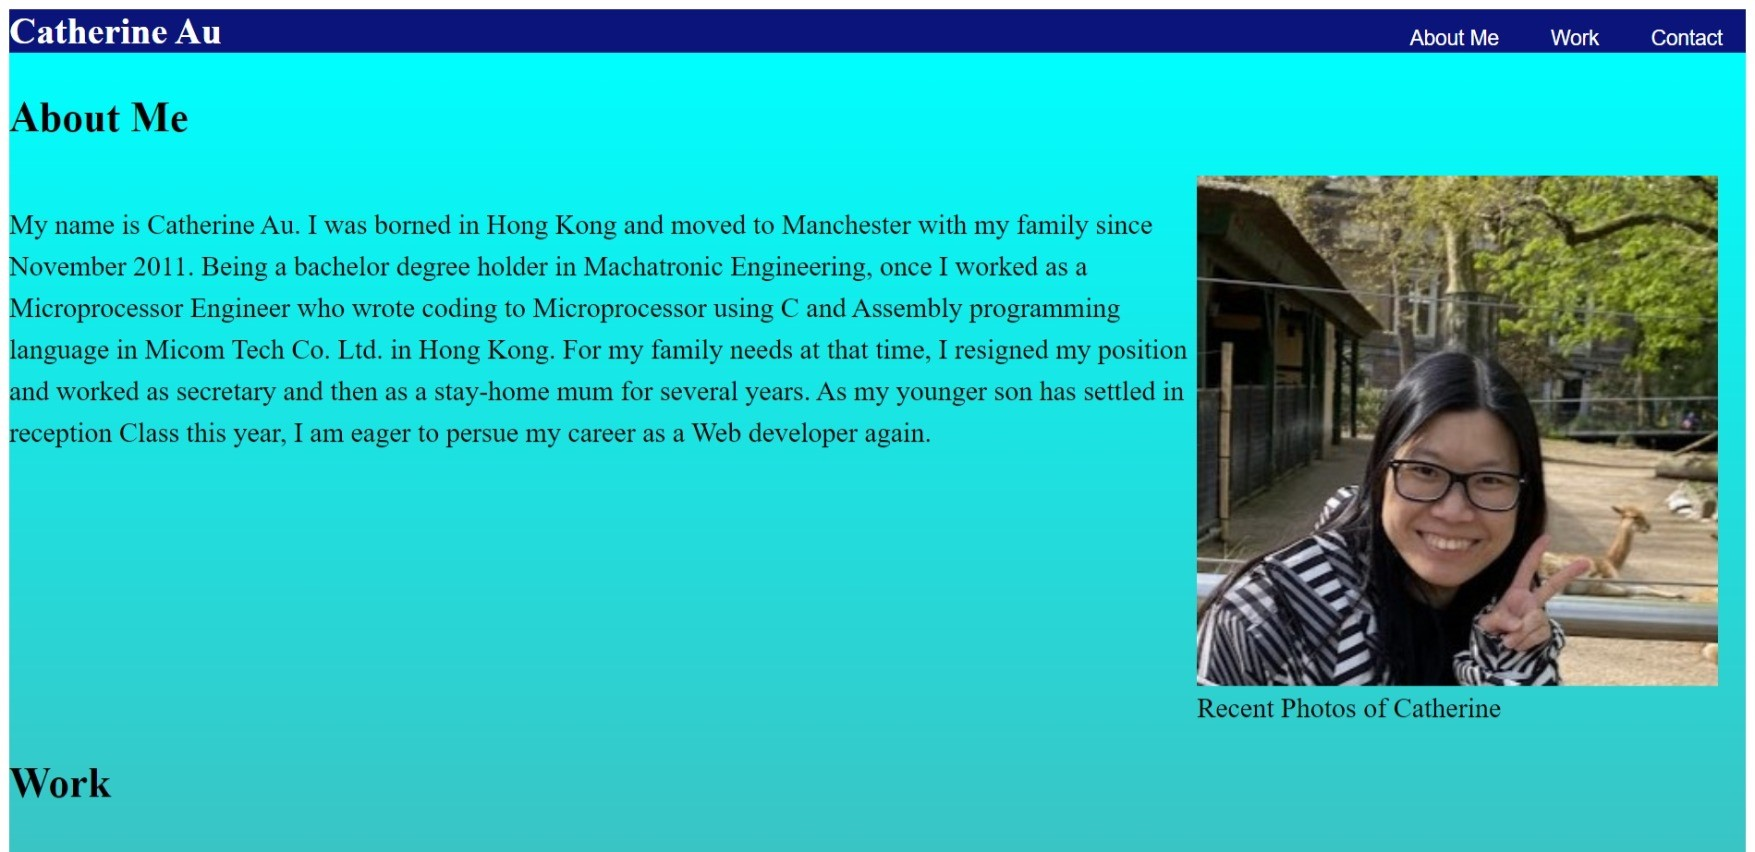
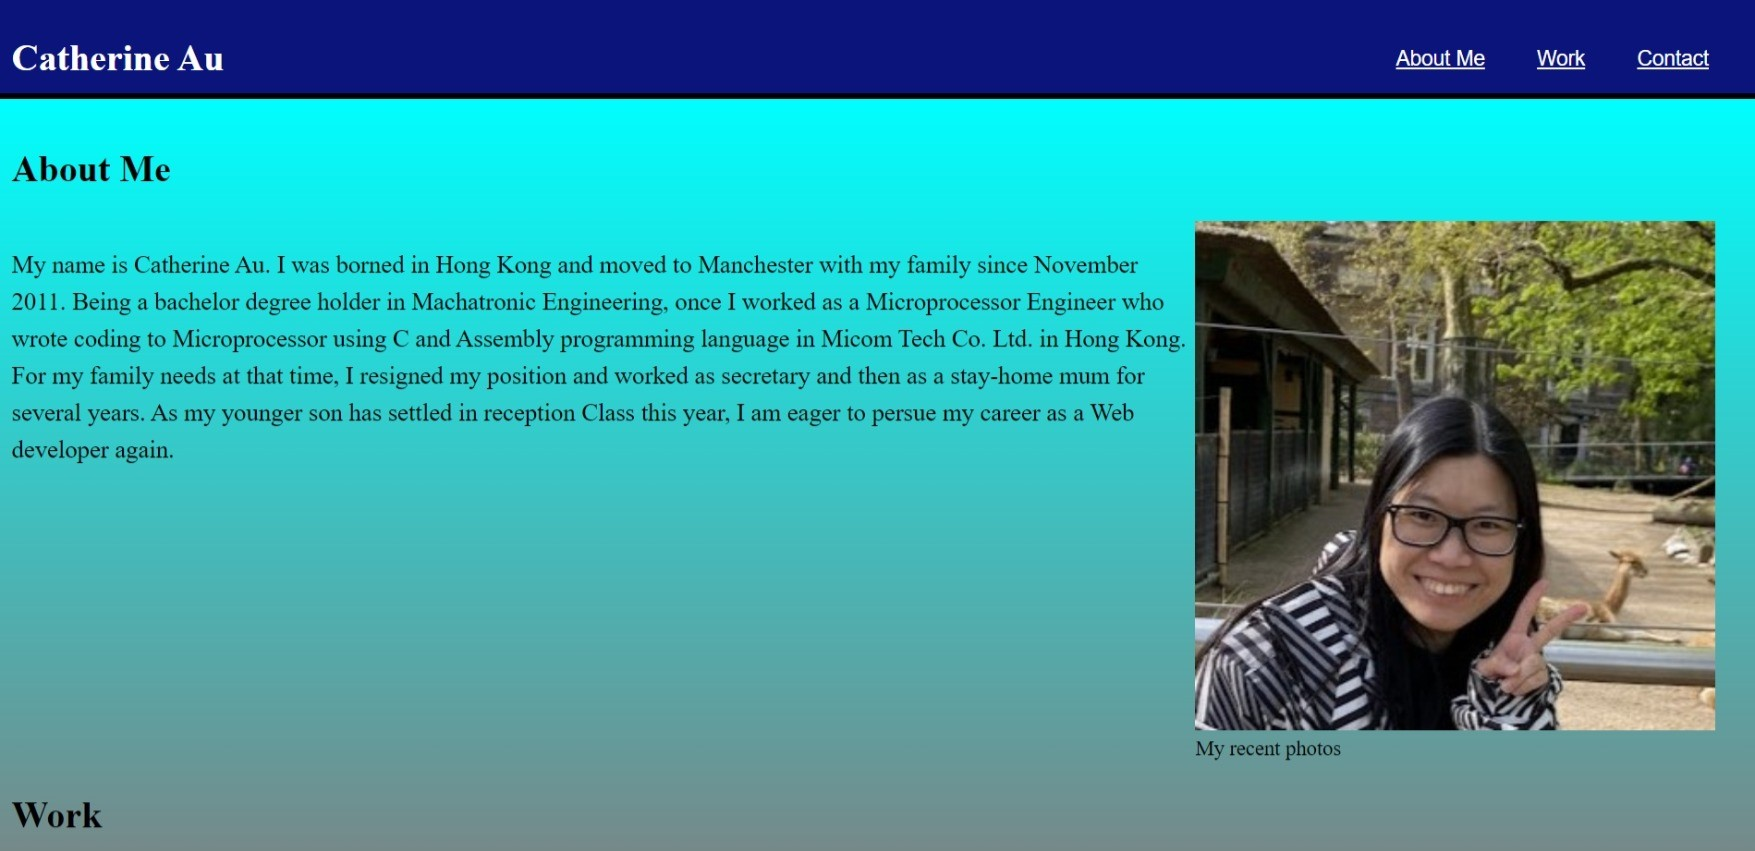
revised the work section using the placeholder images

diff --git a/index.html b/index.html
@@ -29,7 +29,7 @@
         </div>
         <figure id="CatPhotos"> 
           <img src="./assets/images/catherinephoto.jpg" alt="Recent photo of catherine">
-          <figcaption>Recent Photos of Catherine</figcaption>
+          <figcaption>My recent photos</figcaption>
         </figure>
       </Section>
 
@@ -51,23 +51,23 @@
         </div>
 
         <div id="Project3" Class="WorkProject">
-          <h3>Project3 TBA</h3>
-          <a href="https://www.google.co.uk/">
-            <img src="./assets/images/google.jpeg" alt="Photos of Google">
+          <h3><input type="text" name="fname" placeholder="Project3 TBA"></h3>
+          <a href="https://placeholder.com/">
+            <img src="https://via.placeholder.com/1755x851?text=Project3" alt="placeholder Project3 TBA">
           </a>
         </div>
 
         <div id="Project4" Class="WorkProject">
-          <h3>Project4 TBA</h3>
-          <a href="https://uk.yahoo.com/.">
-            <img src="./assets/images/yahoo.jpeg" alt="Photos of Yahoo">
+          <h3><input type="text" name="fname" placeholder="Project4 TBA"></h3>
+          <a href="https://placeholder.com/">
+            <img src="https://via.placeholder.com/1755x851?text=Project4" alt="placeholder Project4 TBA">
           </a>
         </div>
 
         <div id="Project5" Class="WorkProject">
-          <h3>Project5 TBA</h3>
-          <a href="https://www.trilogyed.com/">
-            <img src="./assets/images/Trilogyed.jpeg" alt="Photos of Triologyed">
+          <h3><input type="text" name="fname" placeholder="Project5 TBA"></h3>
+          <a href="https://placeholder.com/">
+            <img src="https://via.placeholder.com/1755x851?text=Project5" alt="placeholder Project5 TBA">
           </a>
         </div>
       </Section>

diff --git a/assets/css/style.css b/assets/css/style.css
@@ -3,6 +3,7 @@
 :root {
   --largepad: 50px;
   --smallpad: 10px; 
+  --bkgbrown:rgba(54, 56, 15, 0.589);
  
 }
 
@@ -13,7 +14,7 @@ body {
 
 main {
   padding: var(--smallpad);
-  background-image: linear-gradient(cyan, gray,rgba(54, 56, 15, 0.589));
+  background-image: linear-gradient(cyan, gray,var(--bkgbrown));
 }
 
 
@@ -99,6 +100,8 @@ figcaption {
 
 .WorkProject img {
   width:-webkit-fill-available;
+  width:-moz-available;         
+  width:fill-available;
 }
 
 .WorkProject:hover {
@@ -137,6 +140,7 @@ footer {
   justify-content: center;
   padding: 2%;
   font-size: larger;
+  background-image: linear-gradient(var(--bkgbrown),rgba(34, 35, 11, 0.589));
 }
 
 

diff --git a/README.md b/README.md
@@ -4,7 +4,9 @@
    The Week 2 Challenge of the Coding boot camp of University of Birmingham is to create a web application from scratch.  We have build a our own portfolio page using flexbox, media queries, and CSS variables.
 
 * Test
-
+   The code was then checked at the following website for the web accessiblity and the markup
+    * https://wave.webaim.org/
+    * https://validator.w3.org/
 
 
 * Screenshot of the deployed applicatoin
